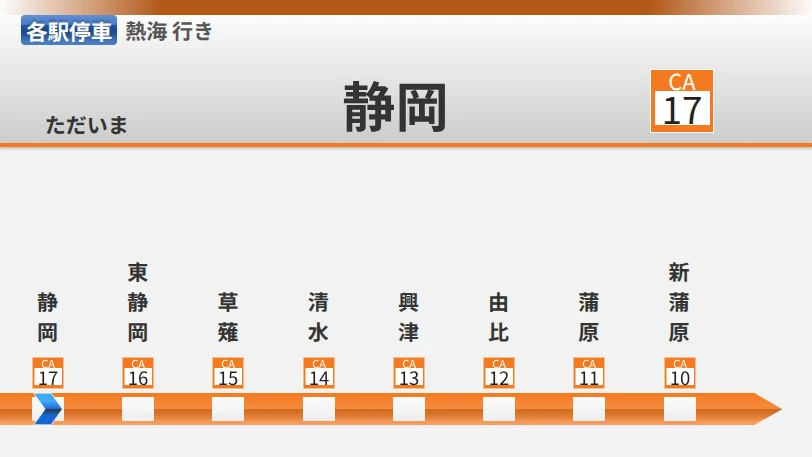
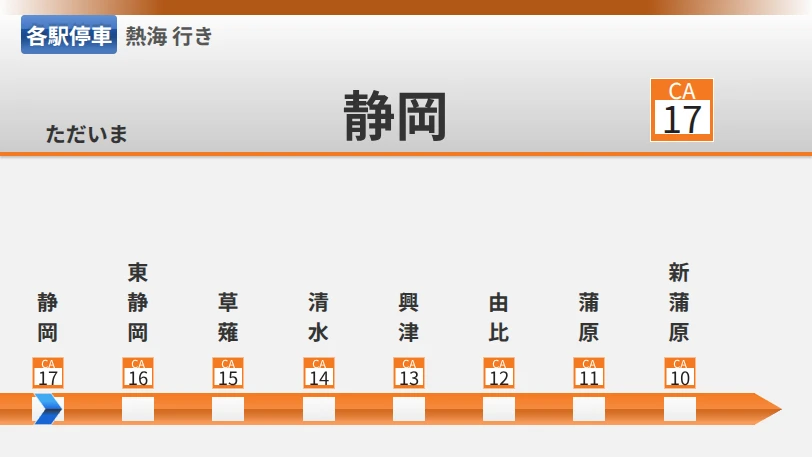
既存テーマの寸法を保ちながら315系風の種別表示の高さを広げる

Changed region(s): [[0.0, 0.1532, 1.0, 0.3676], [0.0, 0.0306, 0.2771, 0.1225]]

diff --git a/src/components/TrainTypeBox.tsx b/src/components/TrainTypeBox.tsx
@@ -42,6 +42,7 @@ type Props = {
   nextTrainTypeColor?: string;
   darkenColor?: boolean;
   fontSizeScale?: number;
+  heightScale?: number;
 };
 
 export const resolveTrainTypeFontFamily = (
@@ -114,8 +115,11 @@ const TrainTypeBox: React.FC<Props> = ({
   nextTrainTypeColor = '#444',
   darkenColor = false,
   fontSizeScale: fontSizeScaleRaw = 1,
+  heightScale = 1,
 }: Props) => {
   const fontSizeScale = Math.max(fontSizeScaleRaw, 0.1);
+  const boxHeight = BOX_HEIGHT * Math.max(heightScale, 0.1);
+  const boxHeightStyle = useMemo(() => ({ height: boxHeight }), [boxHeight]);
   const [fadeOutFinished, setFadeOutFinished] = useState(false);
 
   const { width: windowWidth } = useLandscapeWindowDimensions();
@@ -310,8 +314,8 @@ const TrainTypeBox: React.FC<Props> = ({
   );
 
   const nextTrainTypeWrapperStyle = useMemo(
-    () => [styles.nextTrainTypeWrapper, { width: windowWidth }],
-    [windowWidth]
+    () => [styles.nextTrainTypeWrapper, { width: windowWidth, top: boxHeight }],
+    [boxHeight, windowWidth]
   );
 
   const numberOfLines = useMemo(
@@ -336,39 +340,39 @@ const TrainTypeBox: React.FC<Props> = ({
     fontSizeScale,
     numberOfLines,
     prevNumberOfLines,
-    maxHeight: BOX_HEIGHT,
+    maxHeight: boxHeight,
   });
 
   return (
     <View>
-      <View style={styles.box}>
+      <View style={[styles.box, boxHeightStyle]}>
         <LinearGradient
           colors={['#aaa', '#000', '#000', '#aaa']}
           locations={
             darkenColor ? [0.35, 0.35, 0.35, 0.9] : [0.5, 0.5, 0.5, 0.9]
           }
-          style={styles.gradient}
+          style={[styles.gradient, boxHeightStyle]}
         />
         <LinearGradient
           colors={[`${trainTypeColor}ee`, `${trainTypeColor}aa`]}
-          style={styles.gradient}
+          style={[styles.gradient, boxHeightStyle]}
         />
         {darkenColor ? (
           <>
             <LinearGradient
               colors={['#00000000', '#00000033', '#00000000']}
               locations={[0.35, 0.55, 0.85]}
-              style={styles.gradient}
+              style={[styles.gradient, boxHeightStyle]}
             />
             <LinearGradient
               colors={['#ffffff44', '#ffffff11', '#00000000']}
               locations={[0, 0.35, 0.35]}
-              style={styles.gradient}
+              style={[styles.gradient, boxHeightStyle]}
             />
           </>
         ) : null}
 
-        <View style={styles.textWrapper}>
+        <View style={[styles.textWrapper, boxHeightStyle]}>
           <AnimatedTypography
             style={[
               textTopAnimatedStyles,

diff --git a/src/components/TrainTypeBox.test.tsx b/src/components/TrainTypeBox.test.tsx
@@ -1,7 +1,7 @@
 import { render } from '@testing-library/react-native';
 import { useAtomValue } from 'jotai';
 import React from 'react';
-import { Animated, StyleSheet } from 'react-native';
+import { Animated, StyleSheet, View } from 'react-native';
 import type { TrainType } from '~/@types/graphql';
 import { FONTS } from '../constants';
 import { APP_THEME } from '../models/Theme';
@@ -206,7 +206,7 @@ describe('TrainTypeBox 2行種別の可読性', () => {
     jest.restoreAllMocks();
   });
 
-  const renderWithScale = (fontSizeScale: number) => {
+  const renderWithScale = (fontSizeScale: number, heightScale = 1) => {
     (useAtomValue as jest.Mock).mockImplementation((atom: unknown) => {
       if (atom === headerStateAtom) return 'CURRENT_JA';
       if (atom === themeAtom) return APP_THEME.TOKYO_METRO;
@@ -221,6 +221,7 @@ describe('TrainTypeBox 2行種別の可読性', () => {
       <TrainTypeBox
         trainType={twoLineTrainType}
         fontSizeScale={fontSizeScale}
+        heightScale={heightScale}
       />
     );
   };
@@ -242,6 +243,26 @@ describe('TrainTypeBox 2行種別の可読性', () => {
           lineHeight: number;
         };
         expect(style.lineHeight * 2).toBeLessThanOrEqual(BOX_HEIGHT);
+      }
+    }
+  );
+
+  it.each([1, 1.3])(
+    '高さ倍率=%pで箱と文字領域の内寸を揃える',
+    (heightScale) => {
+      const { UNSAFE_root, getAllByText } = renderWithScale(1.2, heightScale);
+      const height = BOX_HEIGHT * heightScale;
+      const boxes = UNSAFE_root.findAllByType(View)
+        .map((node) => StyleSheet.flatten(node.props.style))
+        .filter((style) => style?.width === 96.25 && style?.height != null);
+      expect(boxes.length).toBeGreaterThanOrEqual(2);
+      for (const box of boxes) {
+        expect(box.height).toBe(height);
+      }
+      for (const label of getAllByText('通勤特急\n')) {
+        expect(
+          StyleSheet.flatten(label.props.style).lineHeight * 2
+        ).toBeLessThanOrEqual(height);
       }
     }
   );

diff --git a/src/components/HeaderJRKyushu.test.tsx b/src/components/HeaderJRKyushu.test.tsx
@@ -172,7 +172,11 @@ describe('HeaderJRKyushu', () => {
       );
       expect(getByTestId('TrainTypeBox')).toBeTruthy();
       expect(jest.mocked(TrainTypeBox).mock.calls.at(-1)?.[0]).toEqual(
-        expect.objectContaining({ darkenColor: true, fontSizeScale: 1.2 })
+        expect.objectContaining({
+          darkenColor: true,
+          fontSizeScale: 1.2,
+          heightScale: 1.3,
+        })
       );
       expect(queryByTestId('TrainTypeBoxJRKyushu')).toBeNull();
     });

diff --git a/src/components/HeaderJRKyushu.tsx b/src/components/HeaderJRKyushu.tsx
@@ -174,6 +174,7 @@ const HeaderJRKyushu: React.FC<Props> = (props) => {
               trainType={trainType}
               darkenColor
               fontSizeScale={1.2}
+              heightScale={1.3}
             />
           ) : (
             <TrainTypeBoxJRKyushu trainType={trainType} />
